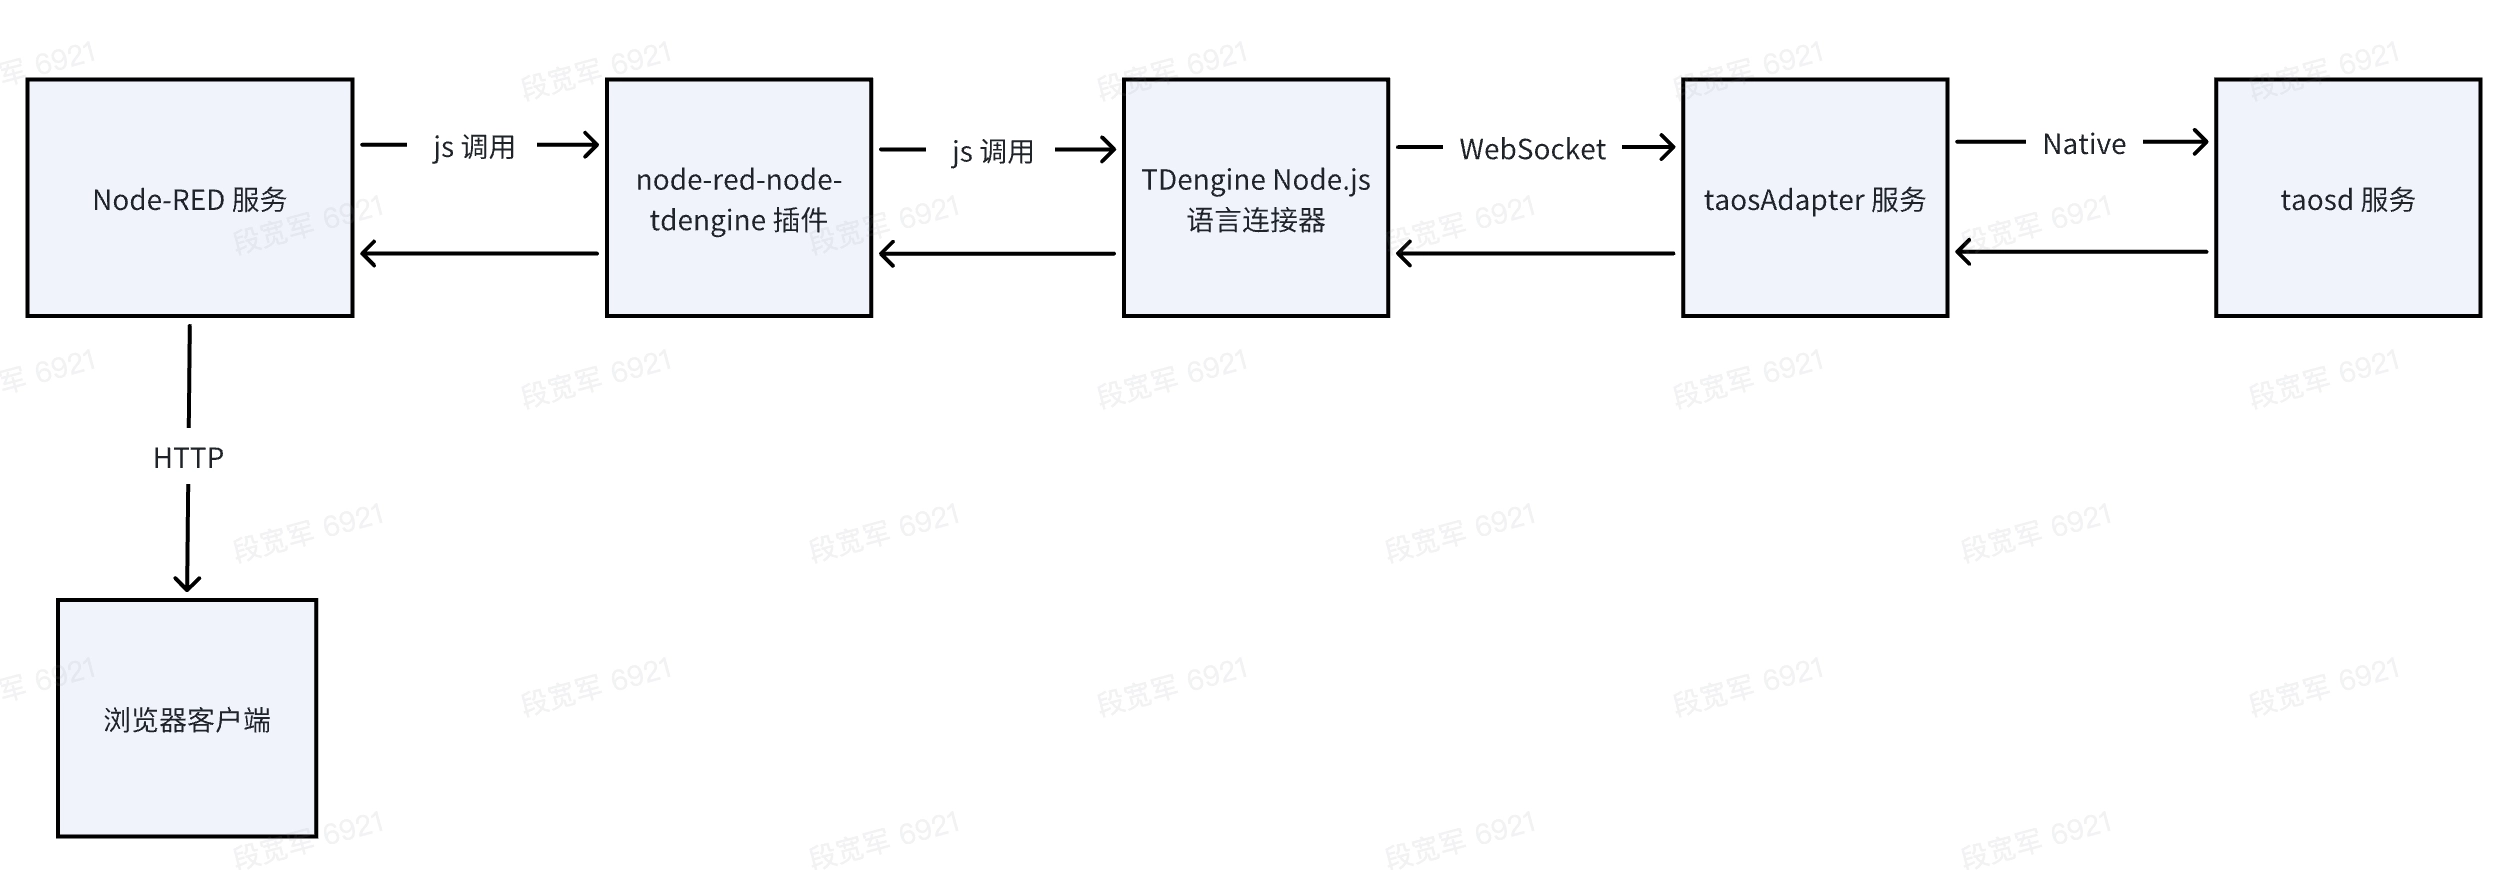
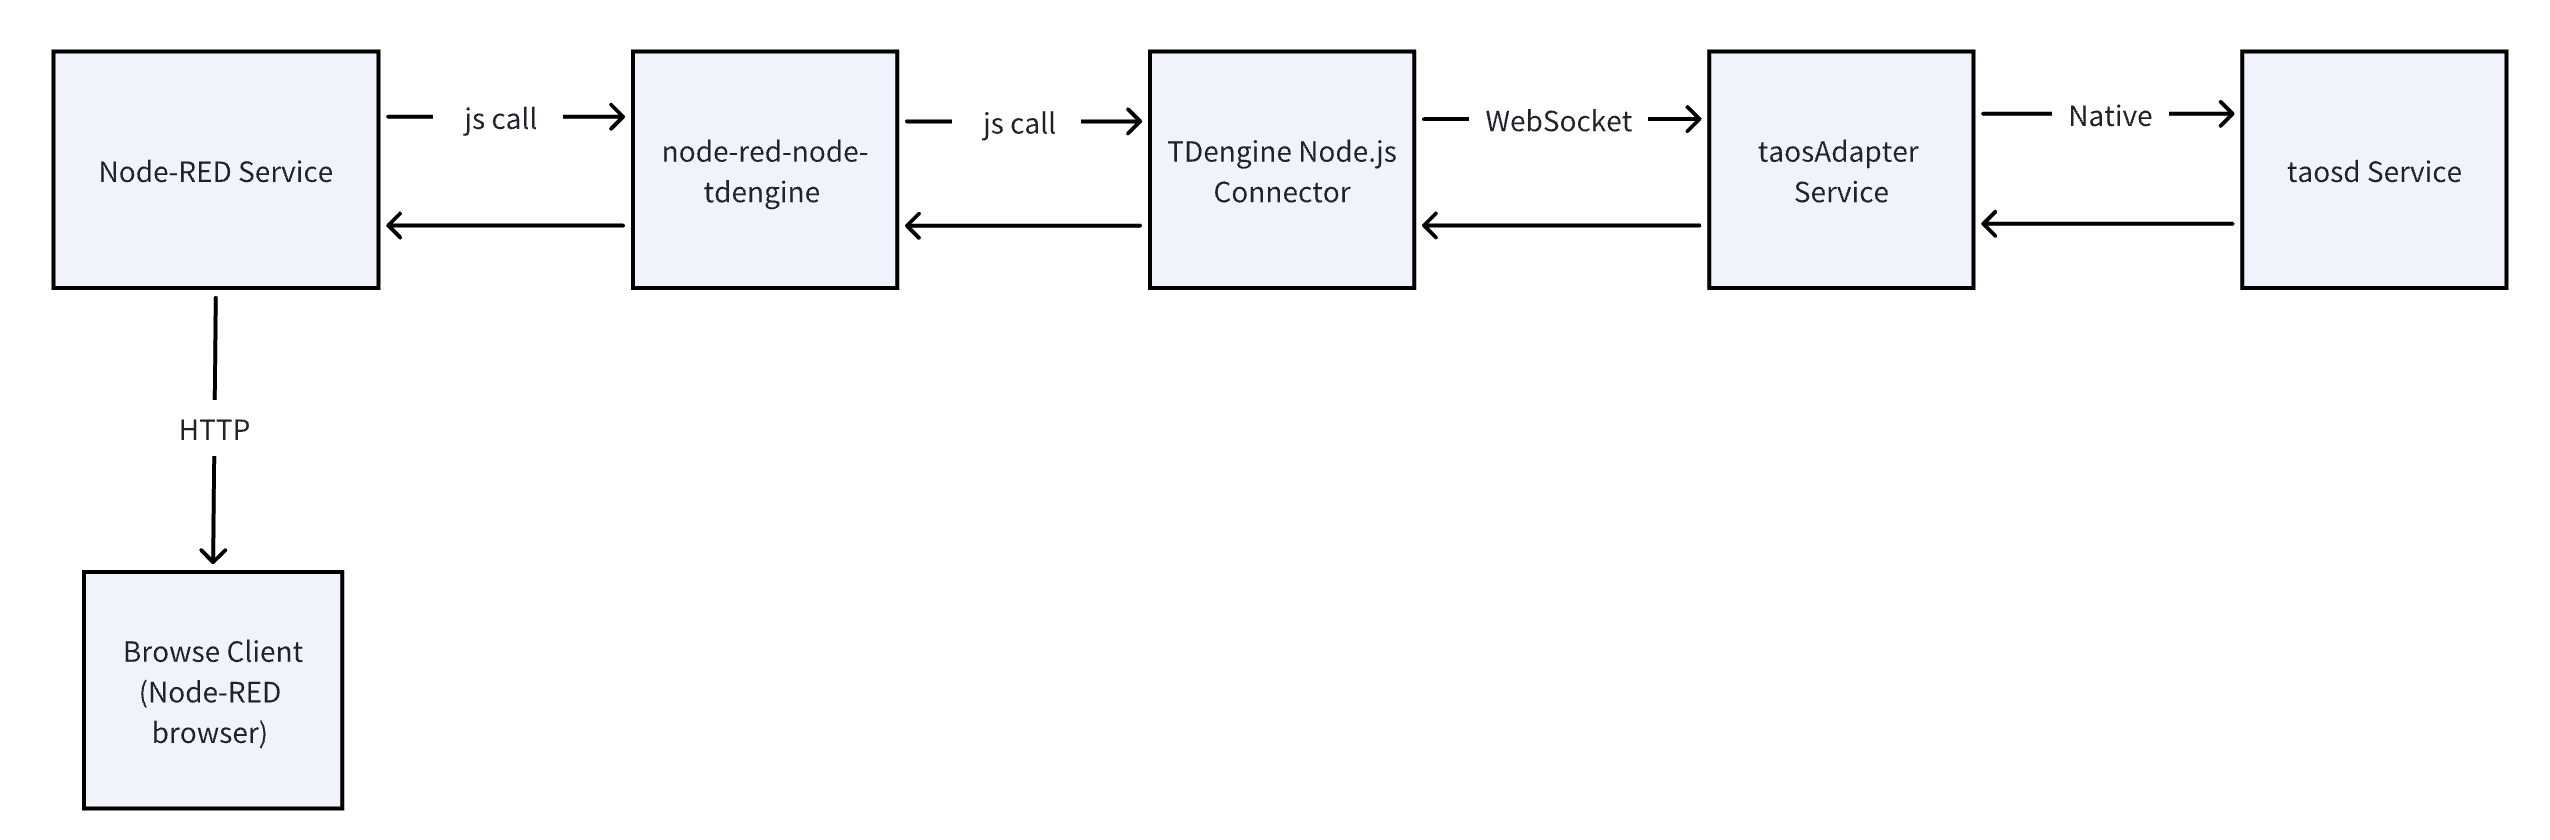
docs: english document make perfect

Changed region(s): [[0.0, 0.031, 0.996, 0.4643], [0.0311, 0.4952, 0.1556, 0.9595], [0.0311, 0.9595, 0.1245, 0.9905]]

diff --git a/docs/en/10-third-party/01-collection/13-Node-RED.md b/docs/en/10-third-party/01-collection/13-Node-RED.md
@@ -9,72 +9,73 @@ toc_max_heading_level: 5
 The deep integration between TDengine and Node-RED provides a comprehensive solution for industrial IoT scenarios. Through Node-RED's MQTT/OPC UA/Modbus protocol nodes, data from PLCs, sensors and other devices can be collected at millisecond-level speed. Real-time queries of TDengine can trigger physical control actions like relay operations and valve switching for immediate command execution.
 
 node-red-node-tdengine is the official plugin developed by TAOS Data for Node-RED. Composed of two nodes:  
-- **tdengine-operator node**: Provides SQL execution capabilities for data writing/querying and metadata management  
-- **tdengine-consumer node**: Offers data subscription and consumption capabilities from specified subscription servers and topics
+- **tdengine-operator node**: Provides SQL execution capabilities for data writing/querying and metadata management.  
+- **tdengine-consumer node**: Offers data subscription and consumption capabilities from specified subscription servers and topics.
 
 ## Prerequisites
 
 Prepare the following environment:
-- TDengine cluster version 3.3.2.0 or higher installed and running (Enterprise/Community/Cloud editions all supported)
-- taosAdapter running normally (refer to [taosAdapter Reference Manual](../../../reference/components/taosadapter))
-- Node-RED version 3.0.0 or higher ([Node-RED Installation](https://nodered.org/docs/getting-started/))
-- Node.js connector version 3.1.8 or higher (download from [npmjs.com](https://www.npmjs.com/package/@tdengine/websocket))
-- node-red-node-tdengine plugin version 1.0.0 or higher (download from [npmjs.com](https://www.npmjs.com/package/node-red-node-tdengine))
+- TDengine cluster version 3.3.2.0 or higher installed and running (Enterprise/Community/Cloud editions all supported).
+- taosAdapter running normally (refer to [taosAdapter Reference Manual](../../../reference/components/taosadapter)).
+- Node-RED version 3.0.0 or higher ([Node-RED Installation](https://nodered.org/docs/getting-started/)).
+- Node.js connector version 3.1.8 or higher (download from [npmjs.com](https://www.npmjs.com/package/@tdengine/websocket)).
+- node-red-node-tdengine plugin version 1.0.0 or higher (download from [npmjs.com](https://www.npmjs.com/package/node-red-node-tdengine)).
 
 Component interaction diagram:  
 ![td-frame](img/td-frame.webp)
 
 ## Configuring Data Source
-Plugin data sources are configured in node properties via the [Node.js connector](../../../reference/connector/node/):
+Plugin data sources are configured in node properties via the [Node.js connector](../../../tdengine-reference/client-libraries/node):
 
-1. Start Node-RED service and access the Node-RED homepage in a browser
-2. Drag the tdengine-operator or tdengine-consumer node from the left node palette to the workspace canvas
-3. Double-click the node on canvas to open property settings
-   - Connection format for tdengine-operator node: `ws://user:password@host:port`
-   - Connection format for tdengine-consumer node: `ws://host:port`
-   - Click the dictionary icon in the upper right area for detailed reference documentation
-4. After configuration, click the "Deploy" button in the upper right. Green node status indicates successful connection
+1. Start Node-RED service and access the Node-RED homepage in a browser.
+2. Drag the tdengine-operator or tdengine-consumer node from the left node palette to the workspace canvas.
+3. Double-click the node on canvas to open property settings.
+   - Connection format for tdengine-operator node: `ws://user:password@host:port`.
+   - Connection format for tdengine-consumer node: `ws://host:port`.
+   - Click the dictionary icon in the upper right area for detailed reference documentation.
+4. After configuration, click the "Deploy" button in the upper right. Green node status indicates successful connection.
 
 ## Verification Methods
 
 ### tdengine-operator
-1. Configure database connection properties for tdengine-operator node
-2. Add an inject node before it, setting msg.topic to desired write SQL
-3. Click the inject node's trigger button to execute SQL
-4. Use taos-CLI to verify existence of written data
+1. Configure database connection properties for tdengine-operator node.
+2. Add an inject node before it, setting msg.topic to desired write SQL.
+3. Click the inject node's trigger button to execute SQL.
+4. Use taos-CLI to verify existence of written data.
 
 ### tdengine-consumer
-1. Configure subscription properties for tdengine-consumer node
-2. Add a debug node after it
-3. In node properties, check "Node Status" and select "Message Count"
-4. Write a test record using taos-CLI
-5. Observe debug node count increment
-6. Verify payload matches written data
+1. Configure subscription properties for tdengine-consumer node.
+2. Add a debug node after it.
+3. In node properties, check "Node Status" and select "Message Count".
+4. Write a test record using taos-CLI.
+5. Observe debug node count increment.
+6. Verify payload matches written data.
 
 ## Usage Examples
 
 ### Scenario
 A workshop has multiple smart power meters that generate data records each second. Data is stored in TDengine, with real-time calculations performed every minute showing:  
-- Average current/voltage per meter  
-- Power consumption  
-Alerts trigger for current >25A or voltage >230V.
+- Average current/voltage per meter.
+- Power consumption.  
+Alerts trigger for current > 25A or voltage > 230V.
 
 Implementation uses Node-RED + TDengine:  
-- Inject + function nodes simulate devices  
-- tdengine-operator writes data  
-- Real-time queries via tdengine-operator  
-- Overload alerts via tdengine-consumer subscription
+- Inject + function nodes simulate devices. 
+- tdengine-operator writes data.
+- Real-time queries via tdengine-operator.
+- Overload alerts via tdengine-consumer subscription.
 
 Assumptions:  
-- TDengine server: 192.168.2.124  
-- WEBSOCKET port: 6041  
-- Default credentials  
-- Simulated devices: d0, d1, d2  
+- TDengine server: 192.168.2.124.  
+- WEBSOCKET port: 6041.  
+- Default credentials.  
+- Simulated devices: d0, d1, d2.  
 
 ### Data Modeling
 Using taos-CLI to manually create data model:  
-- Super table "meters"  
-- Device tables d0, d1, d2  
+- Super table "meters".  
+- Child tables d0, d1, d2.  
+
 ```sql
 create database test;
 create stable test.meters (ts timestamp, current float, voltage int, phase float) 
@@ -173,7 +174,7 @@ Steps:
 
 4. Connect nodes sequentially → Click "Deploy"  
 
-When operational:
+When the flow is successfully started:
 - 'td-reader' node turns green
 - Debug node shows result count  
 ![td-reader](img/td-reader.webp)  
@@ -213,6 +214,14 @@ The data subscription workflow consists of two nodes (tdengine-consumer/debug) t
 The debug node visually displays the count of subscription data pushed downstream. In production, replace it with functional nodes that process subscription data.
 
 Steps:
+
+1. Manually create a subscription topic “topic_overload” using taos-CLI:
+   ``` sql
+   create topic topic_overload as 
+        select tbname,* from test.meters 
+        where current > 25 or voltage > 230;
+   ``` 
+
 2. Drag tdengine-consumer node to canvas:
    - Name: td-consumer
    - Subscription Server: ws://192.168.2.124:6041
@@ -275,10 +284,6 @@ Complete workflow overview after deployment:
 ![td-all](img/td-all.webp)  
 
 ## Summary
-This scenario demonstrates:
-- Connecting Node-RED to TDengine 
-- Implementing data collection/writing  
-- Performing real-time queries  
-- Configuring event subscriptions  
-- Handling system exceptions  
-Complete documentation available in Node-RED plugin's online help.  
+We have detailed how to connect Node-RED to TDengine and implement data writing, querying, and subscription functionality through a concrete scenario example, while demonstrating the input/output data formats of each node and system exception handling.
+
+This document focuses on introducing features through examples. For complete documentation, refer to the Node-RED plugin's online help section.
